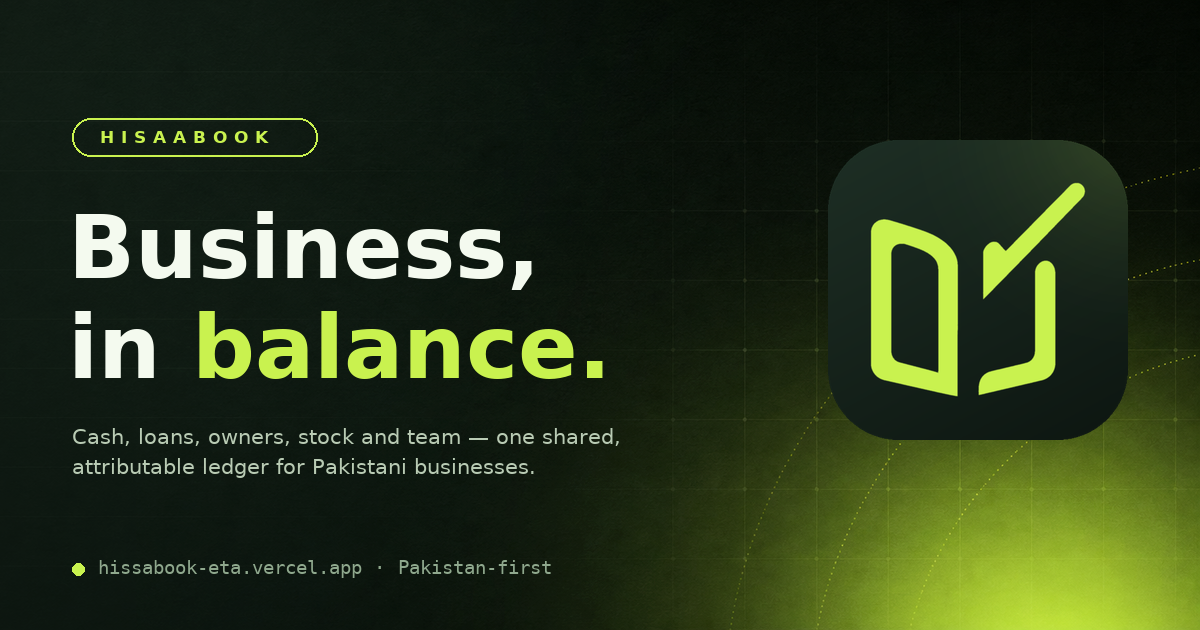
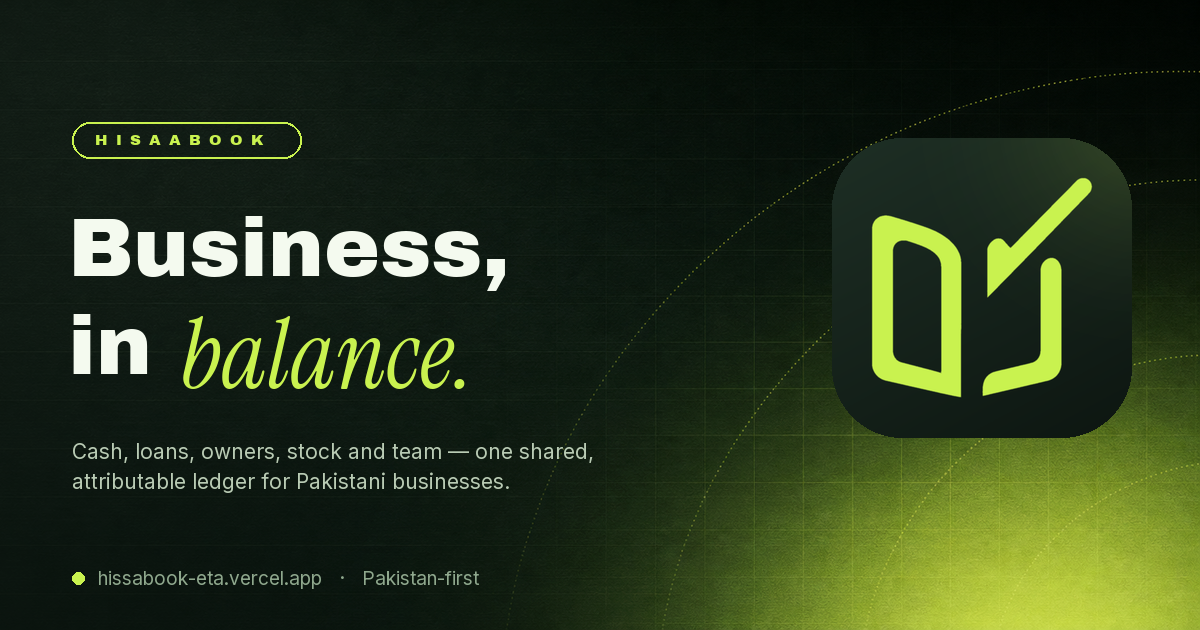
Typography refresh: Archivo Black display, Inter Variable UI, Instrument Serif accents
- Display numerals/headlines in Archivo Black (hero balance, stat values, page
  titles, section titles, landing/auth/CTA headlines) with tight tracking
- Body/UI in Inter Variable (replaces system stack); labels keep tracked-caps Inter
- Editorial accent phrases in Instrument Serif italic (landing h1 'stands.',
  auth aside 'in balance.' / 'in minutes.', invite workspace name)
- ₨ falls back from Archivo Black to Inter latin-ext per glyph (verified cmaps)
- OG/Twitter cards regenerated on the new type system (deep-green ledger grid)
- Fonts self-hosted via @fontsource/* (no external Google Fonts dependency)

diff --git a/app/globals.css b/app/globals.css
@@ -58,7 +58,9 @@
   --input: var(--line-strong);
   --ring: var(--lime-strong);
   --radius: 0.875rem;
-  --font-sans: -apple-system, BlinkMacSystemFont, 'SF Pro Text', 'Segoe UI', Inter, Roboto, 'Helvetica Neue', Arial, sans-serif;
+  --font-sans: 'Inter Variable', -apple-system, BlinkMacSystemFont, 'SF Pro Text', 'Segoe UI', Roboto, 'Helvetica Neue', Arial, sans-serif;
+  --font-display: 'Archivo Black', 'Inter Variable', -apple-system, BlinkMacSystemFont, sans-serif;
+  --font-serif: 'Instrument Serif', Georgia, 'Times New Roman', serif;
 }
 
 @theme inline {
@@ -210,8 +212,8 @@ button:disabled { cursor: not-allowed; }
   color: var(--ink-soft); border-radius: 999px; padding: 6px 12px;
   letter-spacing: .02em; font-size: 10px; font-weight: 700; margin-bottom: 12px; box-shadow: var(--shadow-sm);
 }
-.page-title { font-size: 26px; line-height: 1.05; letter-spacing: -1.2px; font-weight: 800; margin: 0; }
-@media (min-width: 901px) { .page-title { font-size: clamp(28px, 3vw, 34px); letter-spacing: -1.4px; } }
+.page-title { font-family: var(--font-display); font-size: 24px; line-height: 1.02; letter-spacing: -.5px; font-weight: 400; margin: 0; }
+@media (min-width: 901px) { .page-title { font-size: clamp(27px, 3vw, 34px); letter-spacing: -1px; } }
 .page-subtitle { color: var(--muted); font-size: 12px; margin-top: 8px; max-width: 520px; }
 
 /* ------------------------------------------------------------------ */
@@ -266,9 +268,9 @@ button:disabled { cursor: not-allowed; }
 .hero-top { display: flex; align-items: center; justify-content: space-between; gap: 8px 12px; flex-wrap: wrap; position: relative; z-index: 1; }
 .hero-label { color: #b9c8b4; font-size: 10px; font-weight: 700; letter-spacing: .13em; text-transform: uppercase; display: flex; align-items: center; gap: 8px; }
 .hero-workspace { display: inline-flex; align-items: center; gap: 8px; background: #ffffff12; border: 1px solid #ffffff1f; border-radius: 999px; padding: 6px 12px; font-size: 10px; font-weight: 700; color: #e6efe0; }
-.hero-amount { font-size: clamp(32px, 10vw, 42px); font-weight: 800; letter-spacing: -1.5px; margin-top: 14px; line-height: .98; font-variant-numeric: tabular-nums; position: relative; z-index: 1; overflow-wrap: anywhere; }
+.hero-amount { font-family: var(--font-display); font-size: clamp(32px, 10vw, 42px); font-weight: 400; letter-spacing: -1.5px; margin-top: 14px; line-height: .98; font-variant-numeric: tabular-nums; position: relative; z-index: 1; overflow-wrap: anywhere; }
 @media (min-width: 561px) { .hero-amount { font-size: clamp(38px, 7vw, 50px); } }
-@media (min-width: 901px) { .hero-amount { font-size: clamp(38px, 4.6vw, 56px); letter-spacing: -2.2px; } }
+@media (min-width: 901px) { .hero-amount { font-size: clamp(38px, 4.6vw, 56px); letter-spacing: -2.6px; } }
 .hero-amount small { font-size: .42em; font-weight: 700; letter-spacing: 0; color: #cfe3c8; vertical-align: 8px; margin-right: 4px; }
 .hero-meta { display: flex; align-items: center; gap: 8px 10px; flex-wrap: wrap; margin-top: 6px; color: #a9bba4; font-size: 10px; position: relative; z-index: 1; }
 .hero-amount-row { display: flex; align-items: flex-end; justify-content: space-between; gap: 18px; position: relative; z-index: 1; margin-top: 10px; }
@@ -276,7 +278,7 @@ button:disabled { cursor: not-allowed; }
 .hero-chips { display: grid; grid-template-columns: 1fr 1fr; gap: 10px; margin-top: 18px; position: relative; z-index: 1; }
 .hero-chip { background: #ffffff0f; border: 1px solid #ffffff1a; border-radius: 17px; padding: 11px 14px; backdrop-filter: blur(2px); min-width: 0; }
 .hero-chip-label { display: flex; align-items: center; gap: 6px; color: #a9bba4; font-size: 9px; font-weight: 700; letter-spacing: .09em; text-transform: uppercase; }
-.hero-chip-value { font-size: 17px; font-weight: 800; letter-spacing: -.6px; margin-top: 5px; font-variant-numeric: tabular-nums; color: #f2f9ee; }
+.hero-chip-value { font-family: var(--font-display); font-size: 16px; font-weight: 400; letter-spacing: -.4px; margin-top: 5px; font-variant-numeric: tabular-nums; color: #f2f9ee; }
 .hero-chip-sub { color: #8fa88d; font-size: 8px; margin-top: 2px; }
 .hero-trend { display: inline-flex; align-items: center; gap: 4px; font-size: 8px; font-weight: 800; border-radius: 999px; padding: 3px 7px; margin-left: 6px; vertical-align: 1px; }
 .hero-trend.up { color: #c3f47a; background: #c9f24f1f; }
@@ -340,7 +342,7 @@ button:disabled { cursor: not-allowed; }
 .stat-icon.green { background: var(--positive-soft); color: var(--positive); }
 .stat-icon.terra { background: var(--negative-soft); color: var(--negative); }
 .stat-icon.slate { background: var(--neutral-soft); color: var(--ink-soft); }
-.stat-value { font-size: 16.5px; font-weight: 800; letter-spacing: -.6px; font-variant-numeric: tabular-nums; overflow-wrap: anywhere; }
+.stat-value { font-family: var(--font-display); font-size: 16.5px; font-weight: 400; letter-spacing: -.4px; font-variant-numeric: tabular-nums; overflow-wrap: anywhere; }
 @media (min-width: 561px) { .stat-value { font-size: 21px; letter-spacing: -.8px; } }
 .stat-foot { color: var(--muted); font-size: 9px; display: flex; align-items: center; gap: 5px; }
 .delta { display: inline-flex; align-items: center; gap: 3px; font-weight: 800; }
@@ -515,7 +517,7 @@ button:disabled { cursor: not-allowed; }
 @media (min-width: 1025px) { .landing-hero { padding: 34px 28px 30px; grid-template-columns: minmax(0, 1.05fr) minmax(340px, .95fr); gap: clamp(28px, 4.5vw, 56px); } }
 .landing-eyebrow { display: inline-flex; align-items: center; gap: 8px; background: var(--card); border: 1px solid var(--line); border-radius: 999px; padding: 7px 13px; font-size: 9px; font-weight: 800; letter-spacing: .14em; color: var(--ink-soft); box-shadow: var(--shadow-sm); }
 .landing-eyebrow i { width: 7px; height: 7px; border-radius: 50%; background: var(--lime-strong); box-shadow: 0 0 0 3px var(--lime-soft); }
-.landing-copy h1 { font-size: 40px; line-height: .98; letter-spacing: -.05em; margin: 20px 0 16px; font-weight: 800; color: var(--ink); }
+.landing-copy h1 { font-family: var(--font-display); font-size: 40px; line-height: .96; letter-spacing: -.035em; margin: 20px 0 16px; font-weight: 400; color: var(--ink); }
 @media (min-width: 561px) { .landing-copy h1 { font-size: clamp(46px, 8.4vw, 56px); } }
 @media (min-width: 1025px) { .landing-copy h1 { font-size: clamp(48px, 5.6vw, 68px); margin: 22px 0 18px; letter-spacing: -.055em; } }
 .landing-copy h1 .marker { position: relative; display: inline-block; white-space: nowrap; }
@@ -545,7 +547,7 @@ button:disabled { cursor: not-allowed; }
 .landing-section { max-width: 1180px; margin: 0 auto; padding: 34px 18px; }
 @media (min-width: 901px) { .landing-section { padding: 44px 28px; } }
 .section-kicker { color: var(--positive); text-transform: uppercase; letter-spacing: .16em; font-size: 8px; font-weight: 800; }
-.section-title { font-size: clamp(26px, 3.4vw, 40px); letter-spacing: -1.6px; font-weight: 800; line-height: 1.02; margin: 12px 0 0; }
+.section-title { font-family: var(--font-display); font-size: clamp(25px, 3.2vw, 38px); letter-spacing: -1px; font-weight: 400; line-height: 1.04; margin: 12px 0 0; }
 .feature-grid { display: grid; grid-template-columns: 1fr; gap: 12px; margin-top: 26px; }
 @media (min-width: 701px) { .feature-grid { grid-template-columns: repeat(2, minmax(0, 1fr)); } }
 @media (min-width: 1181px) { .feature-grid { grid-template-columns: repeat(3, minmax(0, 1fr)); } }
@@ -565,7 +567,7 @@ button:disabled { cursor: not-allowed; }
 .landing-cta { max-width: 1180px; margin: 0 auto; padding: 0 18px 34px; }
 @media (min-width: 901px) { .landing-cta { padding: 0 28px 40px; } }
 .landing-cta-inner { border-radius: 30px; background: var(--deep); background: radial-gradient(130% 120% at 85% -10%, rgba(201, 242, 79, .28), transparent 55%), linear-gradient(165deg, var(--deep-2), var(--deep-3)); color: #f2f9ee; padding: clamp(30px, 5vw, 54px); text-align: center; box-shadow: var(--shadow-lg); border: 1px solid #ffffff14; }
-.landing-cta-inner h2 { font-size: clamp(26px, 4vw, 44px); letter-spacing: -1.6px; margin: 0; font-weight: 800; }
+.landing-cta-inner h2 { font-family: var(--font-display); font-size: clamp(25px, 3.8vw, 42px); letter-spacing: -1px; margin: 0; font-weight: 400; line-height: 1.04; }
 .landing-cta-inner p { color: #a9bba4; margin: 14px auto 22px; max-width: 470px; font-size: 12px; line-height: 1.65; }
 
 .landing-footer { border-top: 1px solid var(--line); }
@@ -580,7 +582,7 @@ button:disabled { cursor: not-allowed; }
 .auth-aside { display: none; flex-direction: column; justify-content: space-between; gap: 30px; padding: 34px 40px; background: radial-gradient(120% 90% at 90% -10%, rgba(201, 242, 79, .16), transparent 52%), linear-gradient(170deg, var(--deep-2) 0%, var(--deep) 55%, var(--deep-3) 100%); color: #e9f2e4; position: relative; overflow: hidden; }
 .auth-aside::after { content: ''; position: absolute; width: 380px; height: 380px; border-radius: 50%; right: -130px; bottom: -150px; border: 1px solid #ffffff10; box-shadow: 0 0 0 34px #ffffff06, 0 0 0 72px #ffffff04; pointer-events: none; }
 .auth-aside-copy { position: relative; z-index: 1; max-width: 460px; margin: auto 0; }
-.auth-aside-copy h1 { font-size: clamp(34px, 4vw, 48px); letter-spacing: -2px; line-height: 1.0; margin: 0 0 18px; font-weight: 800; color: #f4faEF; }
+.auth-aside-copy h1 { font-family: var(--font-display); font-size: clamp(32px, 3.8vw, 46px); letter-spacing: -1.2px; line-height: 1.02; margin: 0 0 18px; font-weight: 400; color: #f4faef; }
 .auth-aside-copy p { color: #a9bba4; font-size: 12px; line-height: 1.7; margin: 0; }
 .auth-aside-points { display: grid; gap: 13px; margin-top: 26px; }
 .auth-aside-points li { display: flex; align-items: flex-start; gap: 10px; color: #cfe0c9; font-size: 10.5px; line-height: 1.55; list-style: none; }
@@ -731,3 +733,11 @@ button:disabled { cursor: not-allowed; }
 }
 .loan-name { overflow-wrap: anywhere; }
 .movement-description strong { overflow-wrap: anywhere; }
+
+.serif-accent {
+  font-family: var(--font-serif); font-style: italic; font-weight: 400;
+  letter-spacing: -0.01em; font-size: 1.06em; padding-right: 0.06em;
+}
+.serif-lime { color: var(--lime); }
+.landing-copy h1 .serif-accent { color: var(--ink); }
+.showcase-mini-amount { font-family: var(--font-display); font-weight: 400; letter-spacing: -.5px; }

diff --git a/components/landing-page.tsx b/components/landing-page.tsx
@@ -23,7 +23,7 @@ export default function LandingPage() {
       <section className="landing-hero">
         <div className="landing-copy">
           <span className="landing-eyebrow"><i />SIMPLE BOOKKEEPING FOR GROWING BUSINESSES</span>
-          <h1>Know where your business <span className="marker">stands.<svg viewBox="0 0 220 22" fill="none" preserveAspectRatio="none" aria-hidden="true"><path d="M4 15C58 7 152 5 216 12" stroke="#c9f24f" strokeWidth="9" strokeLinecap="round" opacity="0.95" /></svg></span></h1>
+          <h1>Know where your business <span className="marker"><em className="serif-accent">stands.</em><svg viewBox="0 0 220 22" fill="none" preserveAspectRatio="none" aria-hidden="true"><path d="M4 15C58 7 152 5 216 12" stroke="#c9f24f" strokeWidth="9" strokeLinecap="round" opacity="0.95" /></svg></span></h1>
           <p className="landing-description">Cash, loans, owners, stock and team — recorded in one shared ledger your whole business can trust. Built for Pakistani founders and the people they start with.</p>
           <div className="landing-actions">
             <Link className="lime-button" style={{ textDecoration: 'none' }} href="/setup">Set up your business <ArrowRight size={16} /></Link>

diff --git a/components/auth-form.tsx b/components/auth-form.tsx
@@ -12,7 +12,7 @@ import { Label } from '@/components/ui/label';
 const asideCopy = {
   login: {
     eyebrow: 'WELCOME BACK',
-    title: 'Your business books, in balance.',
+    title: <>Your business books,{' '}<em className="serif-accent serif-lime">in balance.</em></>,
     body: 'Pick up right where you left off — every balance, loan, share and salary obligation, exactly as you recorded it.',
     points: [
       'Owner-controlled access — add your bookkeeper, co-founder or accountant with the role they need.',
@@ -22,7 +22,7 @@ const asideCopy = {
   },
   setup: {
     eyebrow: 'FIRST-TIME SETUP',
-    title: 'Set up your business in minutes.',
+    title: <>Set up your business{' '}<em className="serif-accent serif-lime">in minutes.</em></>,
     body: 'Create the owner account, name your workspace, and start recording. You can invite your team later — start solo if you want.',
     points: [
       'Five minutes to your first entry — no credit card, no onboarding calls.',

diff --git a/components/invite-accept-form.tsx b/components/invite-accept-form.tsx
@@ -37,7 +37,7 @@ export default function InviteAcceptForm({ token, email, name, role, workspaceNa
         </a>
         <div className="auth-aside-copy">
           <div className="auth-eyebrow" style={{ color: 'var(--lime)' }}>Workspace invitation</div>
-          <h1>You’re invited to {workspaceName}.</h1>
+          <h1>You’re invited to{' '}<em className="serif-accent serif-lime">{workspaceName}</em></h1>
           <p>{name} asked you to join as a {role.toLowerCase().replace('_', ' ')}. Accept with a password and you’ll see the same shared ledger they do.</p>
           <ul className="auth-aside-points">
             <li><Check size={15} strokeWidth={2.6} /><span>Your access level is set by the workspace owner — bookkeeper, payroll, admin or viewer.</span></li>

diff --git a/app/layout.tsx b/app/layout.tsx
@@ -1,4 +1,8 @@
 import type { Metadata, Viewport } from 'next';
+import '@fontsource-variable/inter';
+import '@fontsource/archivo-black';
+import '@fontsource/instrument-serif';
+import '@fontsource/instrument-serif/400-italic.css';
 import './globals.css';
 
 const productionUrl = process.env.VERCEL_PROJECT_PRODUCTION_URL
